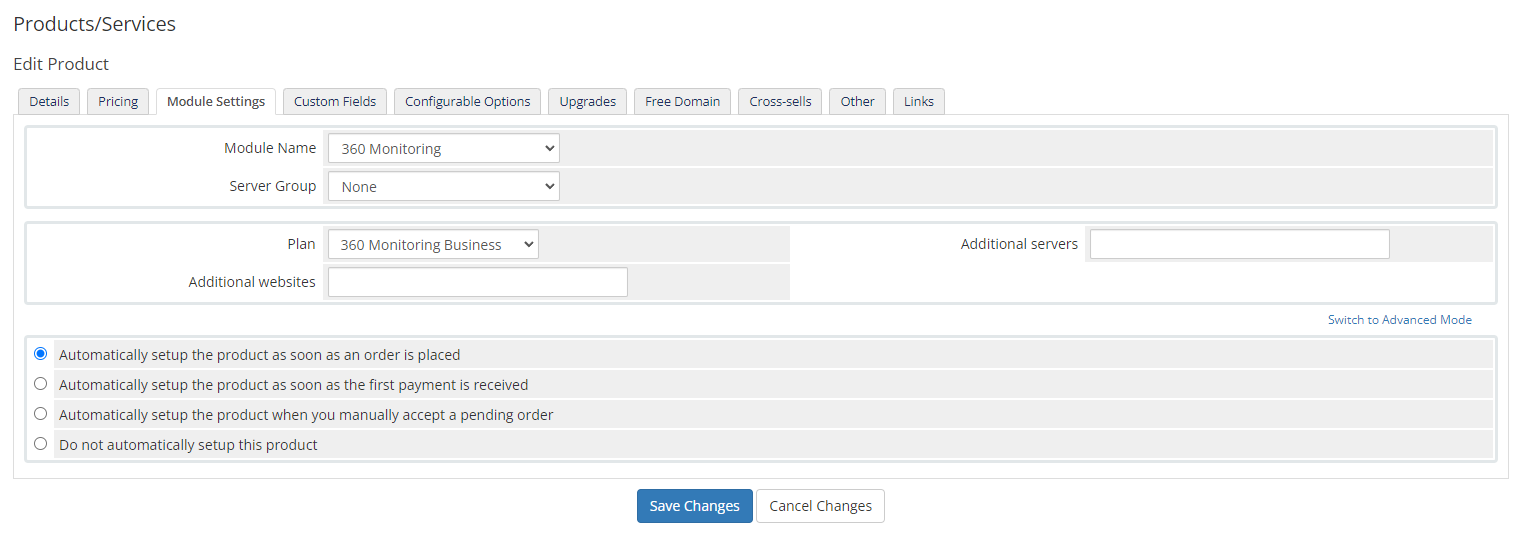
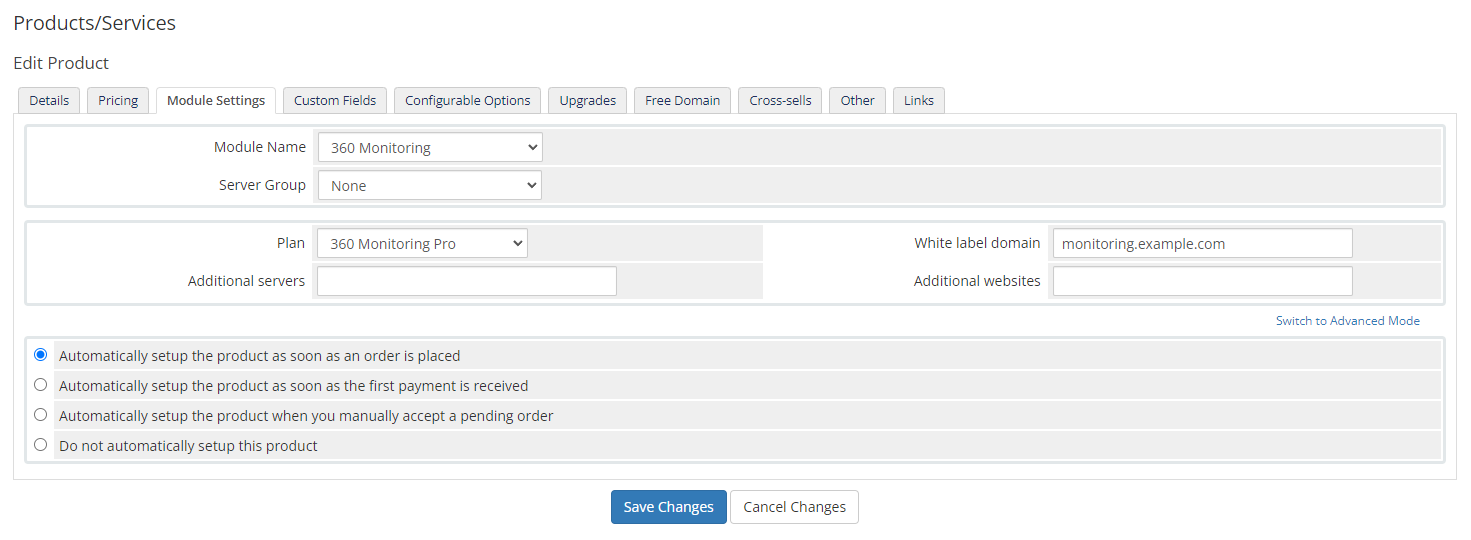
White-label

diff --git a/p360monitoring.php b/p360monitoring.php
@@ -8,7 +8,7 @@ if (!defined('WHMCS')) {
 
 require __DIR__ . '/vendor/autoload.php';
 
-use WHMCS\Module\Server\Plesk360Monitoring\Dto\License;
+use WHMCS\Module\Server\Plesk360Monitoring\CustomFields;
 use WHMCS\Module\Server\Plesk360Monitoring\KaApi;
 use WHMCS\Module\Server\Plesk360Monitoring\Logger;
 use WHMCS\Module\Server\Plesk360Monitoring\ServerOptions;
@@ -61,6 +61,13 @@ function p360monitoring_ConfigOptions(): array
             'Default' => $proPlan->getId(),
             'SimpleMode' => true,
         ],
+        ProductOptions::DOMAIN => [
+            'FriendlyName' => $translator->translate('p360monitoring_label_domain'),
+            'Type' => 'text',
+            'Size' => '25',
+            'Default' => '',
+            'SimpleMode' => true,
+        ],
         ProductOptions::SERVERS => [
             'FriendlyName' => $translator->translate('p360monitoring_label_additional_servers'),
             'Type' => 'text',
@@ -82,46 +89,32 @@ function p360monitoring_ClientArea(array $params): string
 {
     global $CONFIG;
 
-    $keyId = $params['customfields']['keyId'];
-    $uid = $params['customfields']['activationInfoUid'];
-    $activated = $params['customfields']['activationInfoActivated'];
-    $activationLink = $params['customfields']['activationLink'];
-    $terminated = $params['model']->serviceProperties->get('terminated');
-    $suspended = $params['model']->serviceProperties->get('suspended');
+    $kaApi = p360monitoring_getKaApiClient($params);
+    $keyId = $params['customfields'][CustomFields::KEY_ID];
     $translator = Translator::getInstance($CONFIG);
 
     try {
-        if (!$activated) {
-            $kaApi = p360monitoring_getKaApiClient($params);
+        $license = $kaApi->retrieveLicense($keyId);
+        $domain = $params[ProductOptions::DOMAIN];
 
-            $license = $kaApi->retrieveLicense($keyId);
-            $activationLink = $license->getKeyIdentifiers()->getActivationLink();
-            $activated = $license->getActivationInfo()->isActivated();
-            $uid = $license->getActivationInfo()->getUid();
-            $terminated = $license->isTerminated();
-            $suspended = $license->isSuspended();
-
-            $params['model']->serviceProperties->save([
-                'activationLink' => $activationLink,
-                'activationInfoUid' => $uid,
-                'activationInfoActivated' => $activated,
-                'terminated' => $terminated,
-                'suspended' => $suspended
-            ]);
+        if (empty($domain)) {
+            $activationUrl = $license->getKeyIdentifiers()->getActivationLink();
+            $dashboardUrl = 'https://monitoring.platform360.io/dashboard/overview';
+        } else {
+            $activationUrl = 'https://' . $domain . '/license/activate/' . $license->getKeyIdentifiers()->getActivationCode();
+            $dashboardUrl = 'https://' . $domain . '/dashboard/overview';
         }
 
         $returnHtml = '';
 
-        if ($activated) {
+        if ($license->getActivationInfo()->isActivated()) {
             $returnHtml .= '<div class="tab-content"><div class="row"><div class="col-sm-3 text-left">' . $translator->translate('p360monitoring_button_license_activated') . '</div></div></div><br/>';
-        }
-
-        if (!$terminated && !$suspended) {
-            if (!$activated) {
-                $returnHtml .= '<div class="tab-content"><a class="btn btn-block btn-info" href="' . $activationLink . '" target="_blank">' . $translator->translate('p360monitoring_button_activate_license') . '</a></div><br/>';
+        } else {
+            if (!$license->isTerminated() && !$license->isSuspended()) {
+                $returnHtml .= '<div class="tab-content"><a class="btn btn-block btn-info" href="' . $activationUrl . '" target="_blank">' . $translator->translate('p360monitoring_button_activate_license') . '</a></div><br/>';
             }
 
-            $returnHtml .= '<div class="tab-content"><a class="btn btn-block btn-default" href="https://monitoring.platform360.io/dashboard/overview" target="_blank">' . $translator->translate('p360monitoring_button_dashboard') . '</a></div><br/>';
+            $returnHtml .= '<div class="tab-content"><a class="btn btn-block btn-default" href="' . $dashboardUrl . '" target="_blank">' . $translator->translate('p360monitoring_button_dashboard') . '</a></div><br/>';
         }
 
         return $returnHtml;
@@ -139,12 +132,13 @@ function p360monitoring_CreateAccount(array $params): string
         $websites = ProductOptions::websiteAllowance($params);
         $plans = new PlanCollection();
         $plan = $plans->getPlanById($params[ProductOptions::PLAN_ID]);
-
         $kaApi = p360monitoring_getKaApiClient($params);
-
         $license = $kaApi->createLicense($plan, $servers, $websites);
 
-        p360monitoring_UpdateModel($params, $license);
+        $params['model']->serviceProperties->save([
+            CustomFields::KEY_ID => $license->getKeyIdentifiers()->getKeyId(),
+            CustomFields::ACTIVATION_CODE => $license->getKeyIdentifiers()->getActivationCode(),
+        ]);
 
         return 'success';
     } catch (Throwable $exception) {
@@ -157,13 +151,10 @@ function p360monitoring_CreateAccount(array $params): string
 function p360monitoring_SuspendAccount(array $params): string
 {
     try {
-        $keyId = $params['customfields']['keyId'];
-
+        $keyId = $params['customfields'][CustomFields::KEY_ID];
         $kaApi = p360monitoring_getKaApiClient($params);
 
-        $license = $kaApi->suspendLicense($keyId);
-
-        p360monitoring_UpdateModel($params, $license);
+        $kaApi->suspendLicense($keyId);
 
         return 'success';
     } catch (Throwable $exception) {
@@ -176,13 +167,10 @@ function p360monitoring_SuspendAccount(array $params): string
 function p360monitoring_UnsuspendAccount(array $params): string
 {
     try {
-        $keyId = $params['customfields']['keyId'];
-
+        $keyId = $params['customfields'][CustomFields::KEY_ID];
         $kaApi = p360monitoring_getKaApiClient($params);
 
-        $license = $kaApi->resumeLicense($keyId);
-
-        p360monitoring_UpdateModel($params, $license);
+        $kaApi->resumeLicense($keyId);
 
         return 'success';
     } catch (Throwable $exception) {
@@ -195,13 +183,10 @@ function p360monitoring_UnsuspendAccount(array $params): string
 function p360monitoring_TerminateAccount(array $params): string
 {
     try {
-        $keyId = $params['customfields']['keyId'];
-
+        $keyId = $params['customfields'][CustomFields::KEY_ID];
         $kaApi = p360monitoring_getKaApiClient($params);
 
-        $license = $kaApi->terminateLicense($keyId);
-
-        p360monitoring_UpdateModel($params, $license);
+        $kaApi->terminateLicense($keyId);
 
         return 'success';
     } catch (Throwable $exception) {
@@ -214,17 +199,14 @@ function p360monitoring_TerminateAccount(array $params): string
 function p360monitoring_ChangePackage(array $params): string
 {
     try {
-        $keyId = $params['customfields']['keyId'];
+        $keyId = $params['customfields'][CustomFields::KEY_ID];
         $servers = ProductOptions::serverAllowance($params);
         $websites = ProductOptions::websiteAllowance($params);
         $plans = new PlanCollection();
         $plan = $plans->getPlanById($params[ProductOptions::PLAN_ID]);
-
         $kaApi = p360monitoring_getKaApiClient($params);
 
-        $license = $kaApi->modifyLicense($keyId, $plan, $servers, $websites);
-
-        p360monitoring_UpdateModel($params, $license);
+        $kaApi->modifyLicense($keyId, $plan, $servers, $websites);
 
         return 'success';
     } catch (Throwable $exception) {
@@ -232,22 +214,6 @@ function p360monitoring_ChangePackage(array $params): string
 
         return $exception->getMessage();
     }
-}
-
-function p360monitoring_UpdateModel($params, License $license): void
-{
-    $params['model']->serviceProperties->save([
-        'ownerId' => $license->getOwnerId(),
-        'keyId' => $license->getKeyIdentifiers()->getKeyId(),
-        'keyNumber' => $license->getKeyIdentifiers()->getKeyNumber(),
-        'activationCode' => $license->getKeyIdentifiers()->getActivationCode(),
-        'activationLink' => $license->getKeyIdentifiers()->getActivationLink(),
-        'activationInfoUid' => $license->getActivationInfo()->getUid(),
-        'activationInfoActivated' => $license->getActivationInfo()->isActivated(),
-        'status' => $license->getStatus(),
-        'terminated' => $license->isTerminated(),
-        'suspended' => $license->isSuspended(),
-    ]);
 }
 
 function p360monitoring_TestConnection(array $params): array

diff --git a/lib/KaApi.php b/lib/KaApi.php
@@ -67,7 +67,7 @@ final class KaApi
 
         try {
             $response = $this->client->post('/jsonrest/business-partner/30/keys?return-key-state=yes', $options);
-            $data = json_decode($response->getBody()->getContents(), true, 512,JSON_THROW_ON_ERROR);
+            $data = json_decode($response->getBody()->getContents(), true, 512, JSON_THROW_ON_ERROR);
         } catch (\Throwable $e) {
             throw new Exception($e->getMessage(), 0, $e);
         }

diff --git a/lib/ProductOptions.php b/lib/ProductOptions.php
@@ -5,8 +5,9 @@ namespace WHMCS\Module\Server\Plesk360Monitoring;
 class ProductOptions
 {
     public const PLAN_ID = 'configoption1';
-    public const SERVERS = 'configoption2';
-    public const WEBSITES = 'configoption3';
+    public const DOMAIN = 'configoption2';
+    public const SERVERS = 'configoption3';
+    public const WEBSITES = 'configoption4';
 
     private const OPTION_SERVERS = 'Servers';
     private const OPTION_WEBSITES = 'Websites';

diff --git a/lang/german.php b/lang/german.php
@@ -7,6 +7,7 @@ if (!defined('WHMCS')) {
 }
 
 $_LANG['p360monitoring_label_plan'] = 'Plan';
+$_LANG['p360monitoring_label_domain'] = 'White-Label-Domain';
 $_LANG['p360monitoring_label_additional_servers'] = 'Zusätzliche Server';
 $_LANG['p360monitoring_label_additional_websites'] = 'Zusätzliche Websites';
 $_LANG['p360monitoring_button_activate_license'] = 'Lizenz aktivieren';

diff --git a/lang/english.php b/lang/english.php
@@ -7,6 +7,7 @@ if (!defined('WHMCS')) {
 }
 
 $_LANG['p360monitoring_label_plan'] = 'Plan';
+$_LANG['p360monitoring_label_domain'] = 'White label domain';
 $_LANG['p360monitoring_label_additional_servers'] = 'Additional servers';
 $_LANG['p360monitoring_label_additional_websites'] = 'Additional websites';
 $_LANG['p360monitoring_button_activate_license'] = 'Activate license';

diff --git a/lib/CustomFields.php b/lib/CustomFields.php
@@ -1,0 +1,11 @@
+<?php
+
+// Copyright 2022. Plesk International GmbH. All rights reserved.
+
+namespace WHMCS\Module\Server\Plesk360Monitoring;
+
+final class CustomFields
+{
+    public const KEY_ID = 'keyId';
+    public const ACTIVATION_CODE = 'activationCode';
+}

diff --git a/README.md b/README.md
@@ -4,6 +4,17 @@
 
 360 Monitoring WHMCS provisioning module gives the ability to sell the site and server monitoring solution.
 
+## 360 Monitoring Plans
+
+The module supports the following 360 Monitoring plans:
+
+|          | Pro | Business | Enterprise | Flexible |
+| -------- | --- | -------- | ---------- | -------- |
+| Servers  |  1  | 10       | 100        | 0        |
+| Websites | 20  | 200      | 2000       | 0        |
+
+In addition to the monitors included in the plan, an additional amount of monitors can be set in the product options.
+
 ## Requirements
 
 The minimum required PHP version is 7.4.
@@ -32,9 +43,11 @@ and configure it further in the Module Settings:
 
 ![Module Settings](./docs/module-settings.png)
 
-The `Additional servers` and `Additional websites` fields are optional and can be left empty.
+The `White label domain` field is optional and can be used to set the domain name for the white label monitoring URL. If the domain name is not specified, the default 360 Monitoring URL will be used.
 
-To allow the customer to choose additional resources (pay-as-you-grow model), go to the Configurable Options, and add a new group with two options inside, named `Servers` and `Websites` respectively and assign them to the relevant products:
+The `Additional servers` and `Additional websites` fields are optional and can be left empty, except for the Flexible plan.
+
+To allow the customer to choose additional monitors (pay-as-you-grow model), go to the Configurable Options, and add a new group with two options inside, named `Servers` and `Websites` respectively and assign them to the relevant products:
 
 ![Configurable Options](./docs/configurable-options.png)
 
